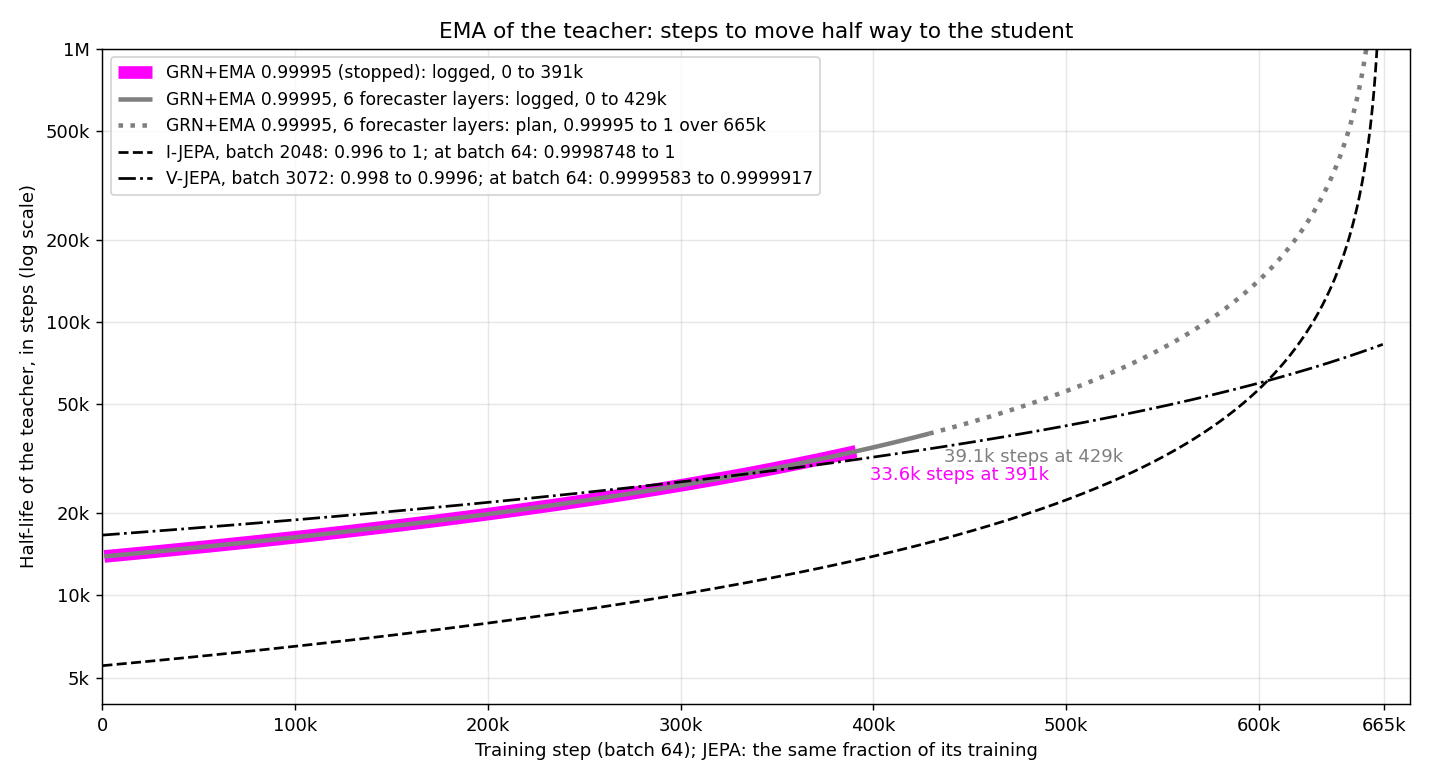
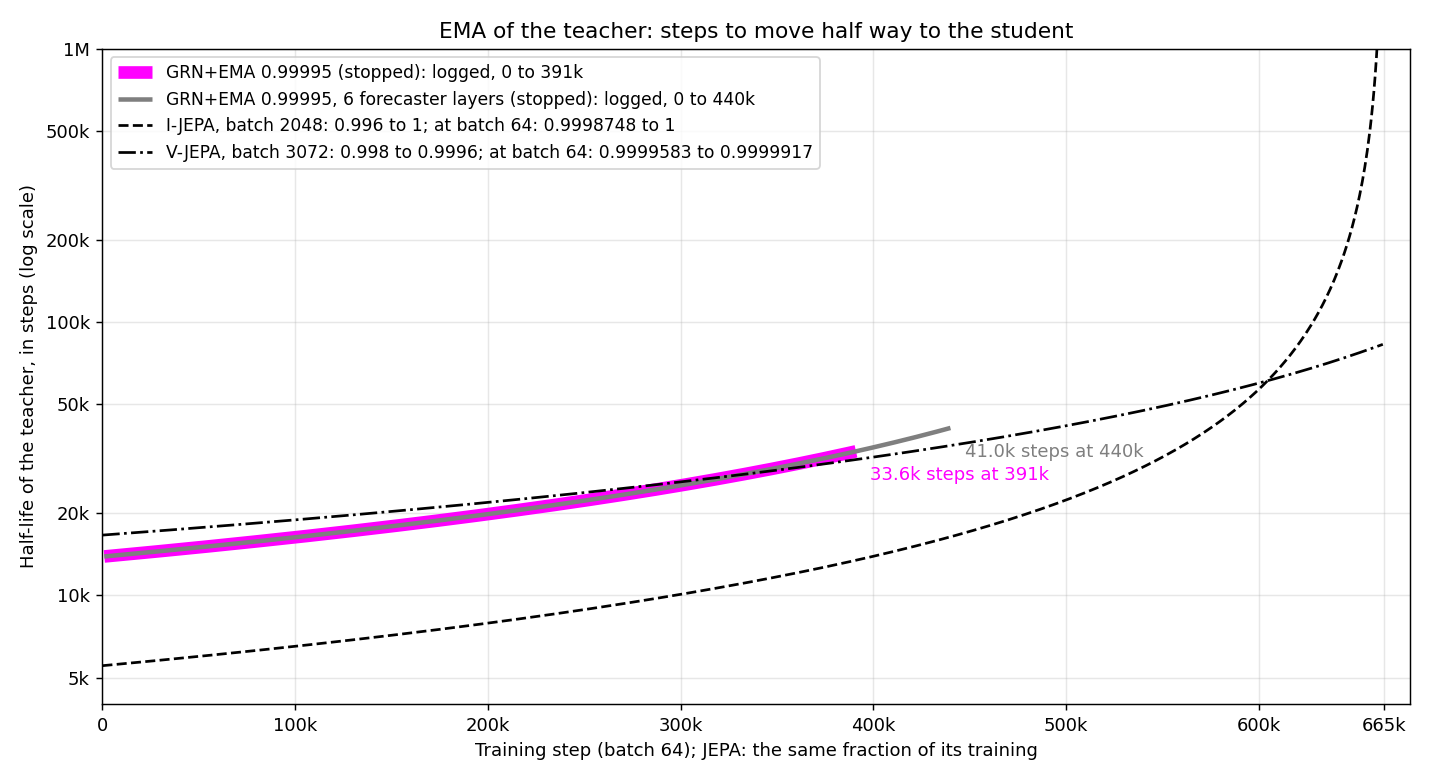
Report: grey stopped at 440k (self-review of PR #428)
The report text, the EMA figure and the loss composition said that grey
(grn_ema099995_f6) was in training. Grey stopped at its 440k checkpoint on
10-23. The EMA figure no longer draws its plan after its last logged step.
The docstring of merge_scores.py names the four result folders.

Changed region(s): [[0.0615, 0.1231, 0.5846, 0.2462], [0.6769, 0.5538, 0.8, 0.6154]]

diff --git a/reports/2026-10-10_frequency_family_head/scripts/plot_ema_099995.py b/reports/2026-10-10_frequency_family_head/scripts/plot_ema_099995.py
@@ -5,7 +5,7 @@ teacher to move half way to a fixed student, ln 0.5 / ln(momentum).
   our runs  the column `ema_tau` of their loss files every 1,000 steps. The
             plan of both runs: 0.99995 to 1.0 in a straight line over
             665,000 steps. grn_ema099995 stopped at step 391,000 (the owner,
-            10-21). The plan of grn_ema099995_f6 after its last logged step.
+            10-21), grn_ema099995_f6 at step 440,000 (10-23).
   I-JEPA    0.996 to 1.0 in a straight line over its training, batch 2048
   V-JEPA    0.998 to 1.0 in a straight line over 1.25 times its training,
             batch 3072
@@ -30,10 +30,8 @@ RUNS_DIR = Path("/home/jupyter/cf_runs")
 TABLE = STUDY / "results" / "ema_tau_099995_logged.tsv"
 OUT = STUDY / "plots" / "ema_schedule_099995.png"
 TOTAL = 665_000
-START, END = 0.99995, 1.0
 BATCH = 64
 EVERY = 1000
-F6 = "grn_ema099995_f6"
 # run -> (loss files in step order, colour, line width, label). grn_ema099995
 # went on from its 180k checkpoint in ckpt_r2: a later file wins on a step.
 RUNS = {
@@ -41,9 +39,9 @@ RUNS = {
         [RUNS_DIR / "grn_ema099995/ckpt/grn_ema099995_losses.csv",
          RUNS_DIR / "grn_ema099995/ckpt_r2/grn_ema099995_r2_losses.csv"],
         "#ff00ff", 7, "GRN+EMA 0.99995 (stopped)"),
-    F6: (
+    "grn_ema099995_f6": (
         [RUNS_DIR / "grn_ema099995_f6/ckpt/grn_ema099995_f6_losses.csv"],
-        "#7f7f7f", 2.5, "GRN+EMA 0.99995, 6 forecaster layers"),
+        "#7f7f7f", 2.5, "GRN+EMA 0.99995, 6 forecaster layers (stopped)"),
 }
 # name -> (start, end, ramp length in fractions of the training, batch size,
 # line style)
@@ -57,11 +55,6 @@ Y_TICKS = [5_000, 10_000, 20_000, 50_000, 100_000, 200_000, 500_000, 1_000_000]
 def half_life(tau):
     """Steps for the teacher to move half way to a fixed student."""
     return np.log(0.5) / np.log(tau)
-
-
-def plan_tau(steps):
-    """The momentum of the plan of our runs at ``steps``."""
-    return START + (END - START) * np.asarray(steps) / TOTAL
 
 
 def jepa_tau(fraction, start, end, span, batch):
@@ -102,7 +95,7 @@ def read_table():
 
 
 def draw_runs(ax, points):
-    """The logged half-life of our runs, and the plan of grn_ema099995_f6."""
+    """The logged half-life of our runs."""
     for run, (_, colour_hex, width, label) in RUNS.items():
         steps, taus = points[run]
         last = f"{steps[-1] // 1000}k"
@@ -111,9 +104,6 @@ def draw_runs(ax, points):
         ax.annotate(f"{half_life(taus[-1]) / 1000:.1f}k steps at {last}",
                     (steps[-1], half_life(taus[-1])), xytext=(8, -16),
                     textcoords="offset points", fontsize=10, color=colour_hex)
-    steps = np.linspace(points[F6][0][-1], TOTAL, 1000)[:-1]
-    ax.plot(steps, half_life(plan_tau(steps)), color=RUNS[F6][1], ls=":", lw=2.5,
-            label=f"{RUNS[F6][3]}: plan, {START} to 1 over 665k")
 
 
 def draw_jepa(ax):

diff --git a/reports/2026-10-10_frequency_family_head/scripts/merge_scores.py b/reports/2026-10-10_frequency_family_head/scripts/merge_scores.py
@@ -1,10 +1,10 @@
 """Merge the score tables of several result folders of the forecast waves
 into results/scores.tsv and results/config_mase.tsv of this report.
 
-The waves of this report ran in two places: on elisa
-(/home/jupyter/cf_runs/freq_family/results) and, from 10-14, on a vast box
-(its results pulled to /home/jupyter/cf_runs/box_heads/ff_results). Each
-folder holds a scores.tsv (one row for each run, stop and arm) and a
+The waves of this report ran on elisa
+(/home/jupyter/cf_runs/freq_family/results) and, from 10-14, on three vast
+boxes (their results pulled to /home/jupyter/cf_runs/box_heads/ff_results,
+box_heads2/ff_results and box_heads3/ff_results). Each folder holds a scores.tsv (one row for each run, stop and arm) and a
 config_mase.tsv (one row for each run, stop, arm and config).
 
     python3 merge_scores.py <result folder> [<result folder> ...]

diff --git a/reports/2026-10-10_frequency_family_head/scripts/plot_loss_composition_099995.py b/reports/2026-10-10_frequency_family_head/scripts/plot_loss_composition_099995.py
@@ -42,7 +42,7 @@ RUNS = {
                        (RUNS_DIR / "grn_ema099995/ckpt_r2/grn_ema099995_r2_losses.csv", None)],
                       "#ff00ff", "GRN+EMA 0.99995, 3 forecaster layers (stopped at 391k)"),
     "grn_ema099995_f6": ([(RUNS_DIR / "grn_ema099995_f6/ckpt/grn_ema099995_f6_losses.csv", None)],
-                         "#7f7f7f", "GRN+EMA 0.99995, 6 forecaster layers (in training)"),
+                         "#7f7f7f", "GRN+EMA 0.99995, 6 forecaster layers (stopped at 440k)"),
     "cf419_cos200k": ([(BLK_DIR / "cf419_cos200k_losses.csv", 140_000),
                        (BLK_DIR / "cf419_cos200k_r2_losses.csv", None)],
                       "#1a1a1a", "BLK, 3 forecaster layers"),

diff --git a/reports/2026-10-10_frequency_family_head/frequency_family_head.md b/reports/2026-10-10_frequency_family_head/frequency_family_head.md
@@ -4,7 +4,7 @@
 
 ![Forecast and reconstruction through training](plots/forecast_and_reconstruction.png)
 
-Grey (EMA 0.99995, 6 forecaster layers, in training) has the lowest forecast MASE of the GRN runs: 1.0341 at 240k.
+Grey (EMA 0.99995, 6 forecaster layers, stopped at 440k) has the lowest forecast MASE of the GRN runs: 1.0341 at 240k.
 Magenta (the same with 3 forecaster layers) has its lowest MASE, 1.0723, at 140k, and teal (EMA 0.9998) has 1.0568 at 100k.
 At 40k, yellow (grey with the L_rep weight 0.1 at each step, in training) has 1.1053, grey 1.0864 and magenta 1.0992.
 
